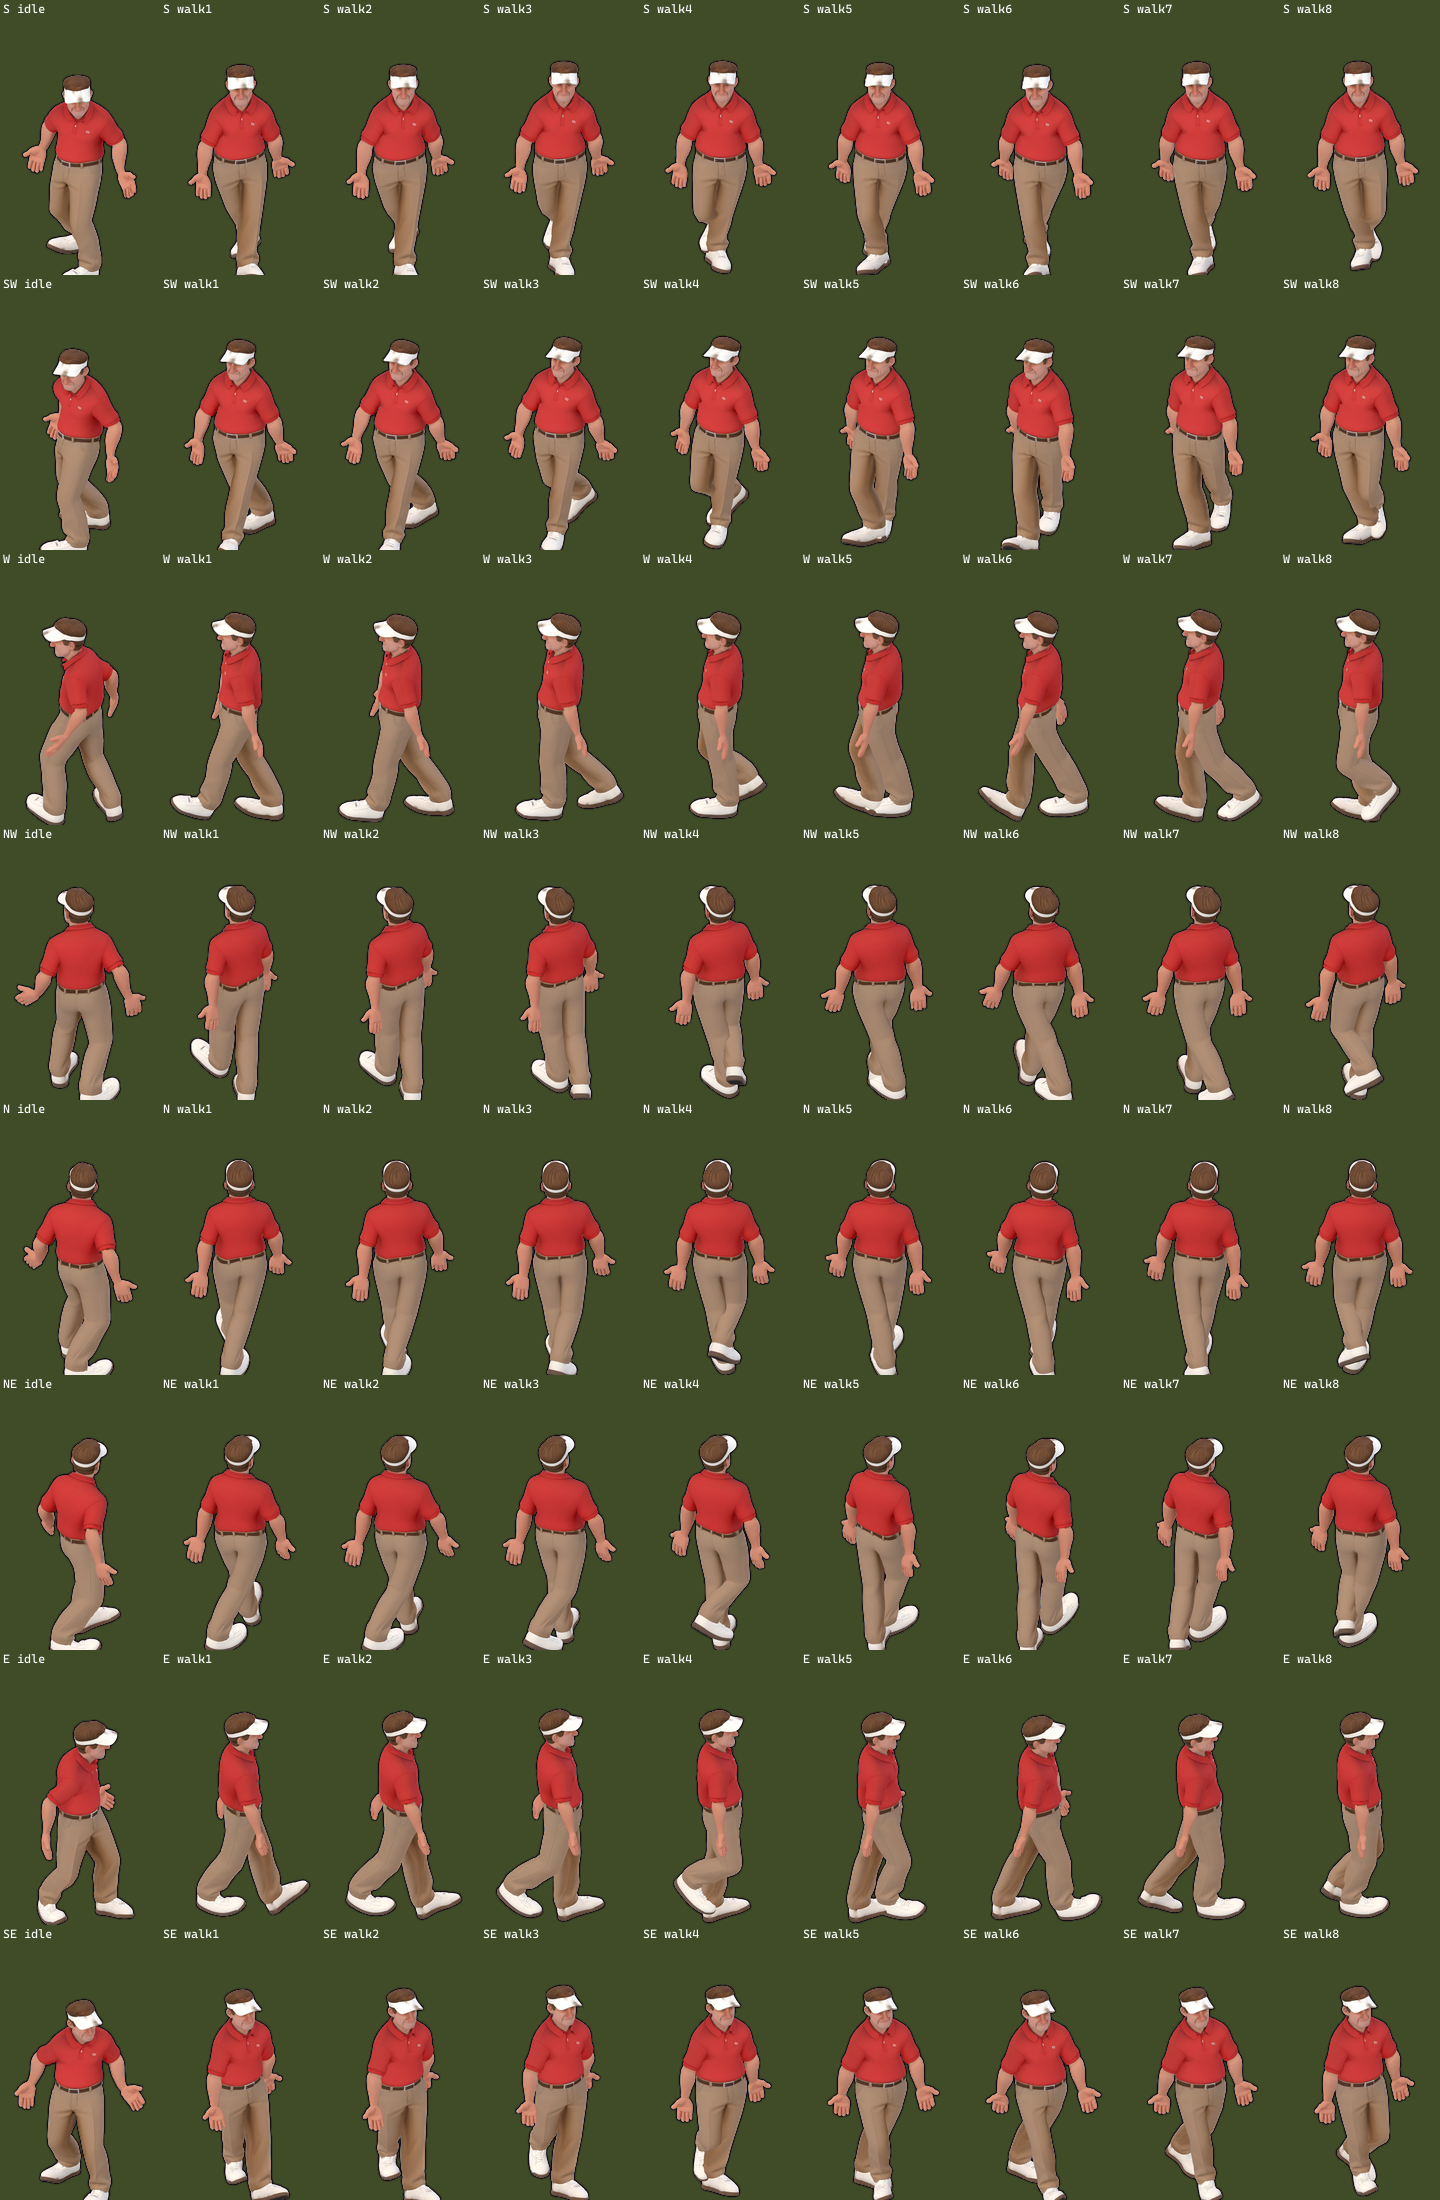
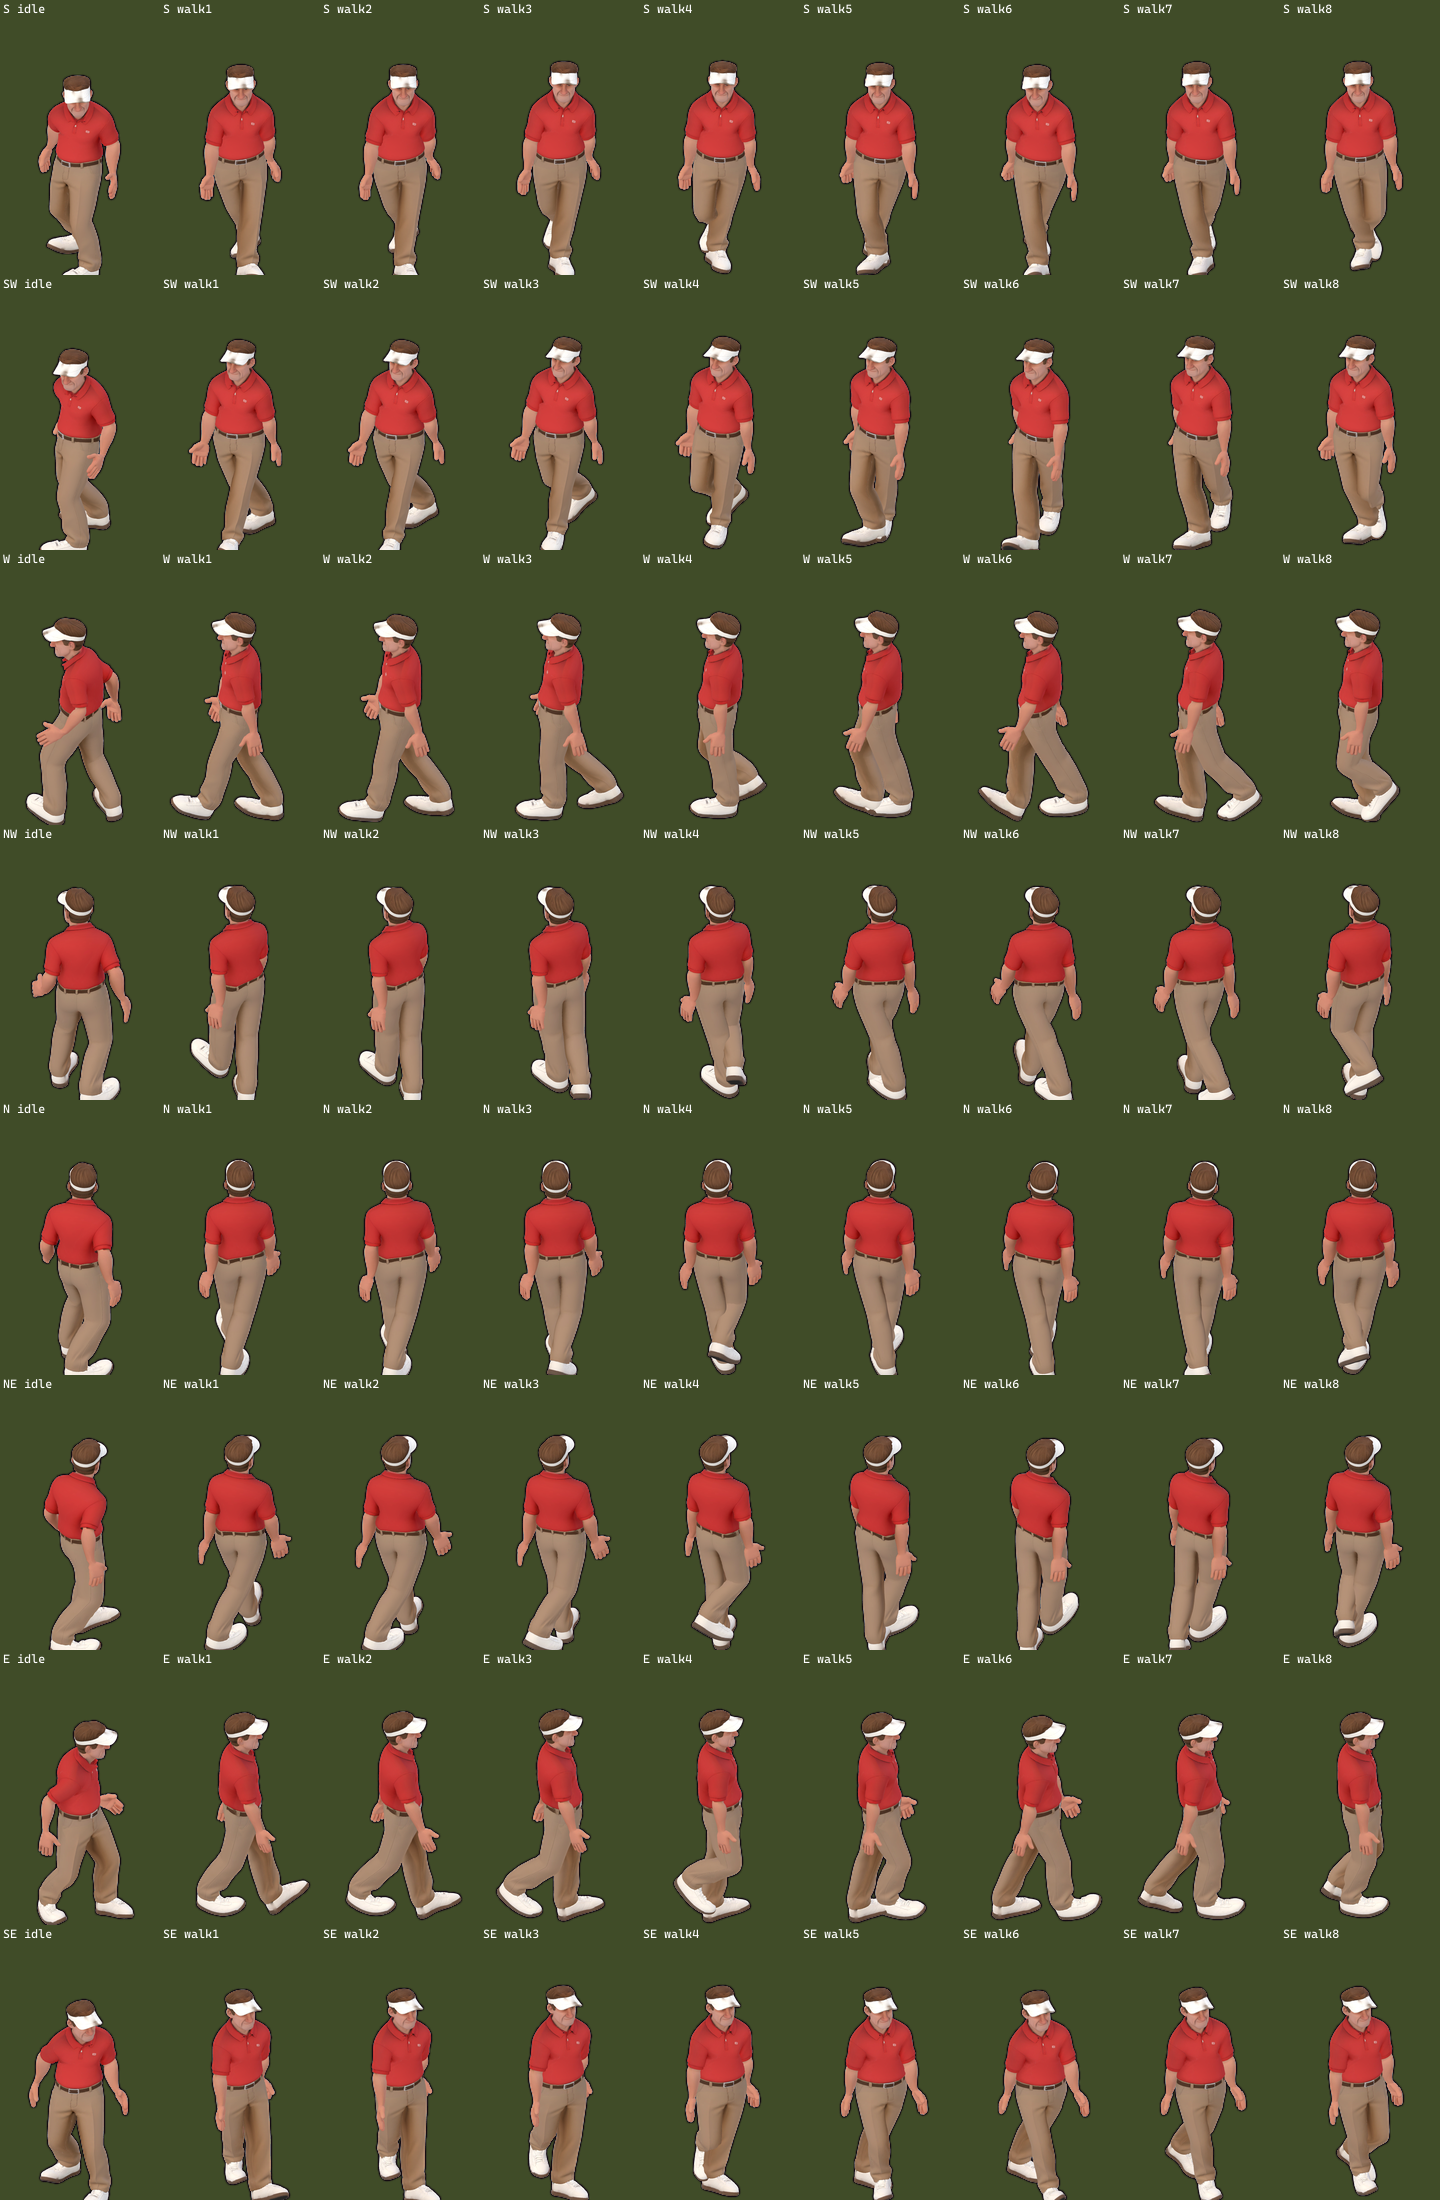
People batch: the cast (35 townspeople, spectators, staff), make-cast.mjs, RUN timeout recovery, hands and arms settings
make-person-3d.mjs finds a model in RUN's library after the CLI's 600 s timeout (never pays twice) and has --model-only;
render-person-3d.mjs --hand-twist l,r and --arms-in (the owner's choice: 70,-70 and 12). Spectator 1 re-rendered with them.

diff --git a/docs/SPECTATOR-ART.md b/docs/SPECTATOR-ART.md
@@ -52,6 +52,17 @@ RUN's rig service (`rig-3d`) rejected every model on 2026-10-23, base_man's too,
    the build, the better the joints line up).
 3. **Render:** `render-person-3d.mjs <id> --root art/spectators --height <m>`, then look at `preview.png` (section 4).
 
+**The batch (2026-10-23):** `art/people-cast.json` lists every person to make (townspeople in `art/people3d`, spectators and staff in
+`art/spectators`; id, role, height, base, look) and the render settings; `node scripts/assets/people3d/make-cast.mjs` makes everyone who
+has no sheet yet, one at a time (model from RUN, local rig, render), logging to `output/people-cast.log`; rerun it to carry on. After a
+change of the render settings: `make-cast.mjs --render-only` (free). Each look must start with its own words (the batch checks): after the
+CLI's timeout, make-person-3d.mjs finds the model in RUN's library by the start of its prompt.
+
+**Hands and arms (the owner's choice, 2026-10-23):** RUN's A-pose models hold their hands open, palms forward, and the clips keep the arms
+out. `render-person-3d.mjs --hand-twist 70,-70 --arms-in 12` (in `people-cast.json` "render") turns the hands (forearm and hand twisted
+about the arm, half each; the rig has no finger bones) and swings the upper arms in toward the body. The owner looked at five hand options
+and three arm angles and chose these; `-70,70` turns the palms the other way, and above about 16 degrees the hands touch the thighs.
+
 **Three traps the transfer hit (all fixed in the script; keep them fixed if you change it):**
 - **RUN's models are quantized** (glTF `KHR_mesh_quantization`: positions, normals and UVs stored as normalized 16-bit integers). Writing
   metre values back into those attributes clamps them to [-1, 1]: the person comes out as stretched columns 2 m tall (the arms, legs and
@@ -213,6 +224,10 @@ LEAD.md).
 5. The crowd patches (3d), then P2.
 
 ## 7. Progress (update this as you go)
+- 2026-10-23 (latest): **the cast batch started**: 35 people in `art/people-cast.json` (12 townspeople, 15 spectators, 8 staff: marshals,
+  volunteer, security, caddie, vendor, two pros), one at a time, about 11 min each (RUN's model). Check `output/people-cast.log`; rerun
+  `make-cast.mjs` to carry on after a stop (finished people are skipped). Then look at every `preview.png` (section 4), fix bad frames in
+  the studio's People tab, and Rebuild game sprites: the townspeople in `art/people3d` walk the town after the rebuild.
 - 2026-10-23 (latest): **spectator 1 done for walk + idle.** `spec_m_polo_visor`: RUN's model, rigged locally from base_man
   (`rig-local-person.mjs`, section 1b), rendered at 1.80 m: `art/spectators/spec_m_polo_visor/sheet.webp`, `preview.png`. Checked: whole
   in all 8 facings, clean shoulders, elbows and hips. Not yet: the other clips (RUN's rig service down), the studio People-tab check for
